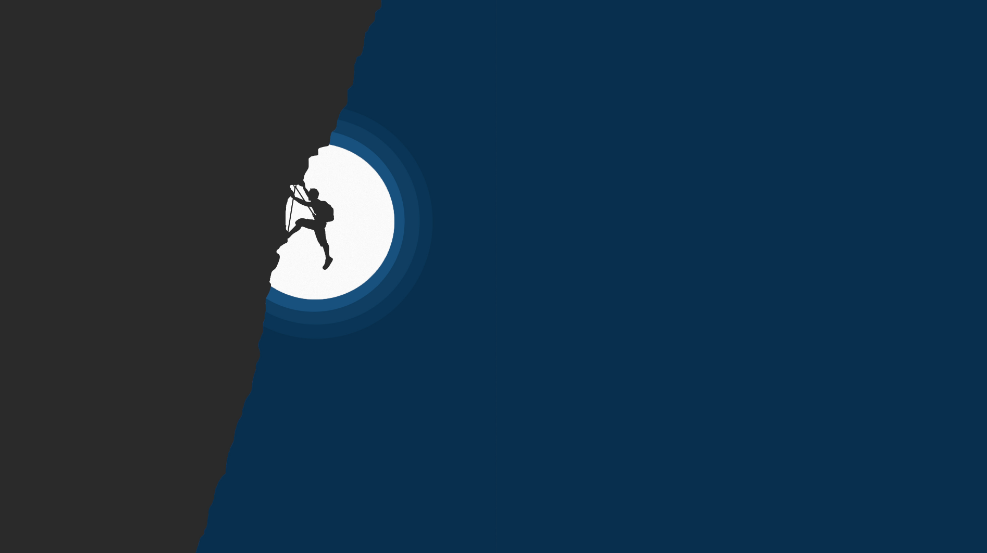
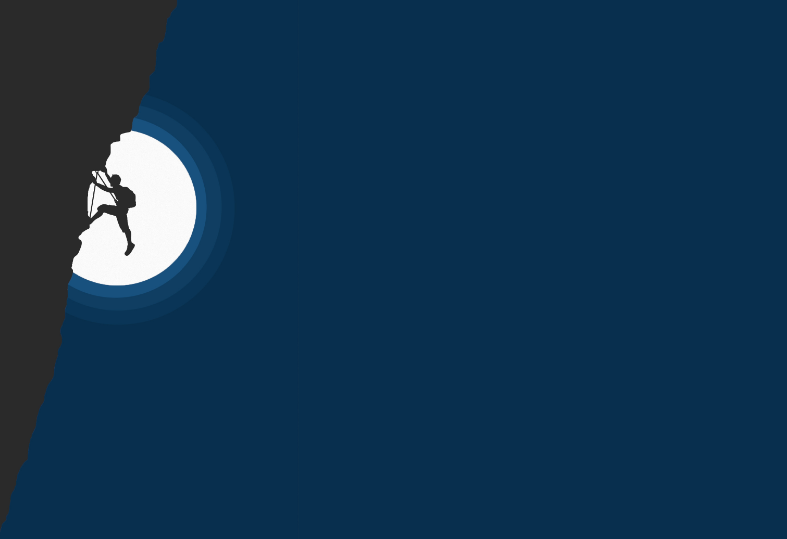
Minor update

Changed region(s): [[0.0, 0.0, 0.4269, 1.0]]

diff --git a/css/Contact.css b/css/Contact.css
@@ -3,7 +3,7 @@ html{
 	background-image: url('../Background/700.jpg');
 	background-repeat: no-repeat;
 	background-color:#111C22;
-	background-size:cover;
+	background-size: 100% 100%;
 }
 .follow{
 	padding-left: 100px;

diff --git a/css/Education.css b/css/Education.css
@@ -2,7 +2,7 @@
 html{
 	background-image: url('../Background/600.jpg');
 	background-repeat: no-repeat;
-	background-size:cover;
+	background-size: 100% 100%;
 }
 .follow{
 	padding-left: 100px;

diff --git a/css/Skills.css b/css/Skills.css
@@ -3,7 +3,7 @@
 html{
 	background-image: url('../Background/500.jpg');
 	background-repeat: no-repeat;
-	background-size:cover;
+	background-size: 100% 100%;
 }
 .follow{
 	padding-left: 100px;

diff --git a/css/About.css b/css/About.css
@@ -2,7 +2,7 @@
 html{
 	background-image: url('../Background/400.png');
 	background-repeat: no-repeat;
-	background-size:cover;
+	background-size: 100%;
 }
 .follow{
 	padding-left: 100px;

diff --git a/css/project1.css b/css/project1.css
@@ -4,6 +4,7 @@ html{
 	padding-left: 10px;
 	padding-right: 10px;
   background-image: url('../Background/100.jpg');
+	background-size: 100% ;
 }
 .head11
 {
